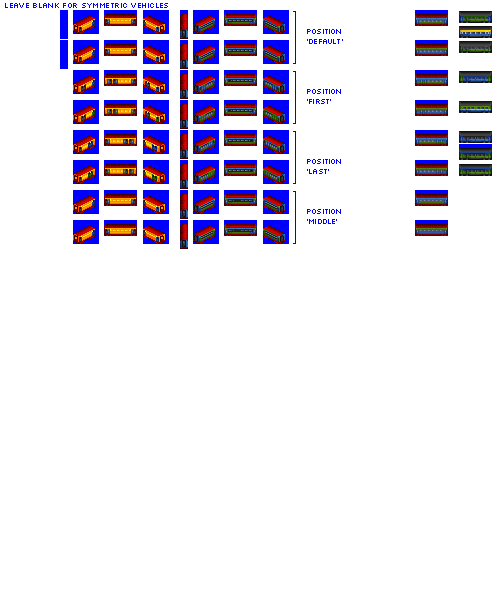
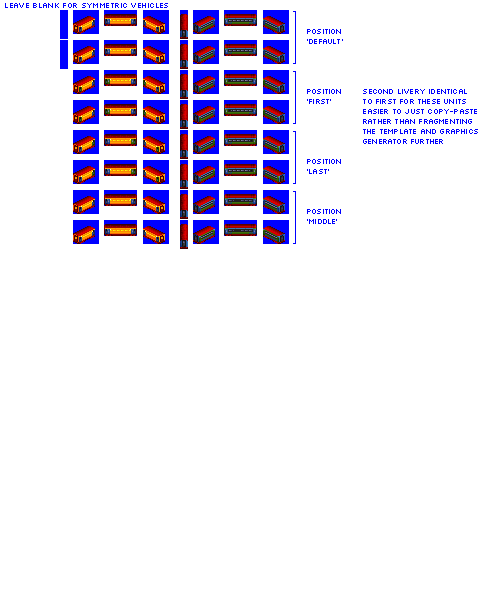
Change:  sprites complete for gen 6 HST coach

diff --git a/src/vehicles/hst_passenger_cars.py b/src/vehicles/hst_passenger_cars.py
@@ -18,7 +18,7 @@ def main():
                                      gen=6,
                                      subtype='U',
                                      intro_date_offset=-10, # match to Scorcher HST
-                                     sprites_complete=False)
+                                     sprites_complete=True)
 
     consist.add_unit(type=HSTPaxCar,
                      chassis='4_axle_solid_express_32px')
